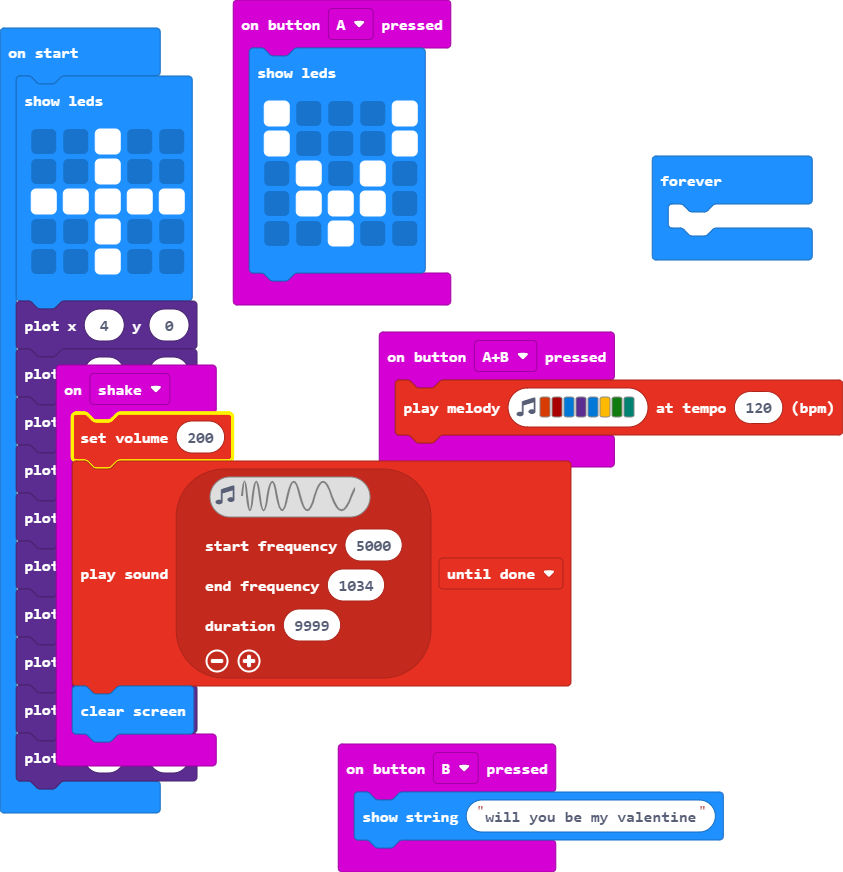
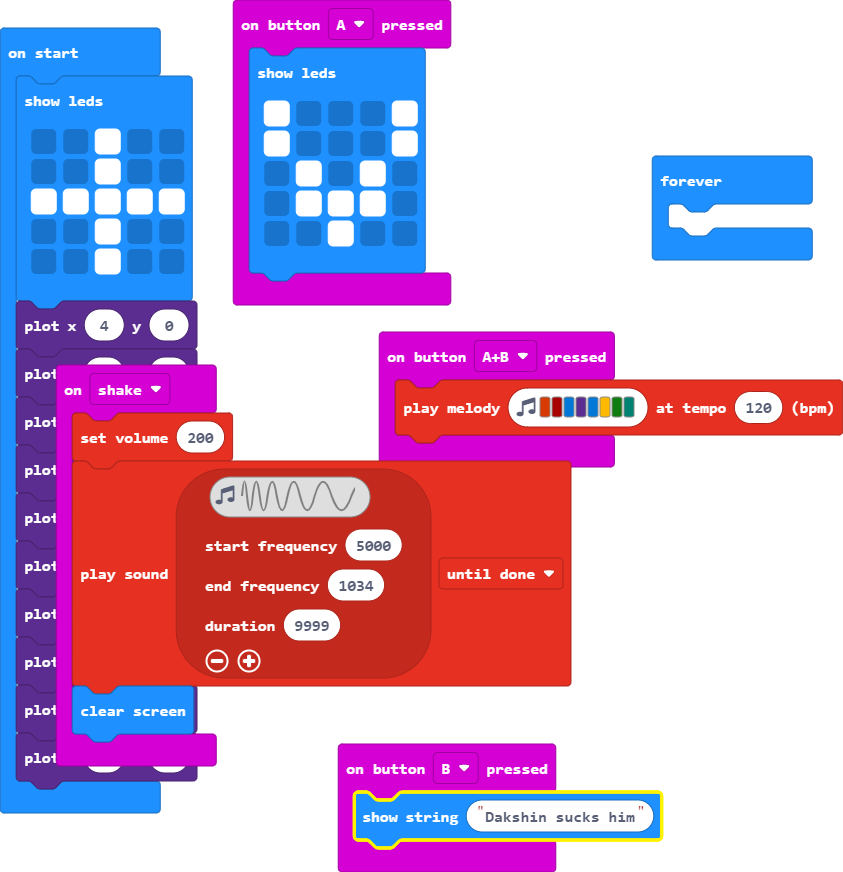
Update main.blocks, main.ts

Changed region(s): [[0.4009, 0.8979, 0.8636, 0.9908], [0.0617, 0.4644, 0.2776, 0.5264]]

diff --git a/main.ts b/main.ts
@@ -11,7 +11,7 @@ input.onButtonPressed(Button.AB, function () {
     music.playMelody("B C5 E D E A G F ", 120)
 })
 input.onButtonPressed(Button.B, function () {
-    basic.showString("will you be my valentine")
+    basic.showString("Dakshin sucks him")
 })
 input.onGesture(Gesture.Shake, function () {
     music.setVolume(200)
